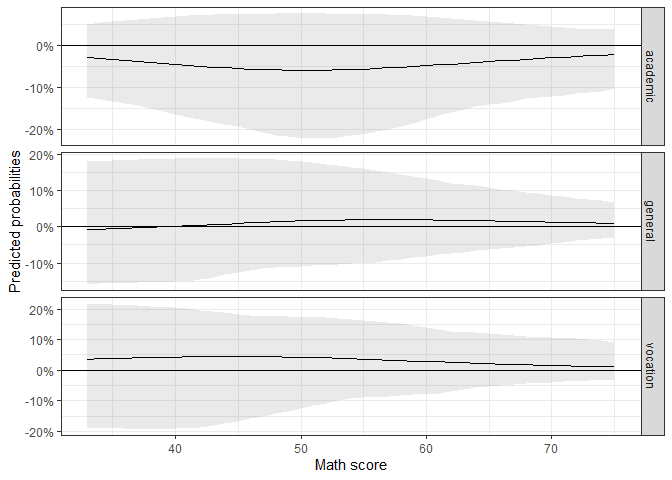
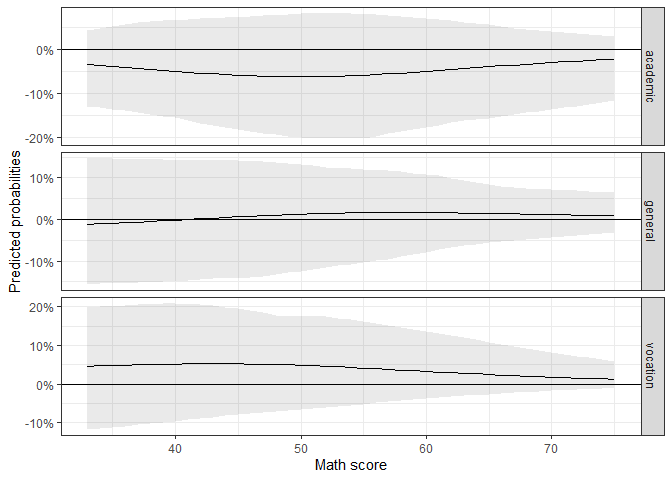
Add installing the package

diff --git a/README.md b/README.md
@@ -34,8 +34,8 @@ file, this is not the place to write comprehensively about it.
 These are the important characteristics of the model:
 
   - The multinomial logit regression is used to model nominal outcomes.
-    It provides the opportunity to assign specific choices a probability
-    based on a set of independent variables.
+    It provides the opportunity to assign specific choices a
+    probability, based on a set of independent variables.
   - The model needs an assigned baseline category to be identifiable.
     All other choices are evaluated in contrast to this reference.
   - The model returns a set of coefficients for each choice category.
@@ -46,6 +46,17 @@ These are the important characteristics of the model:
 This package helps to interpret the model in meaningful ways.
 
 ## Using the package
+
+### Installing
+
+The package can be both installed from CRAN or the github repository:
+
+``` r
+# Uncomment if necessary:
+
+# install.packages("MNLpred")
+# devtools::install_github("ManuelNeumann/MNLpred")
+```
 
 ### How does the function work?
 
@@ -59,19 +70,19 @@ It is far more helpful and easier to understand to come up with
 predicted probabilities and first differences for values of interest
 (see e.g., King, Tomz, and Wittenberg 2000 for approaches in social
 sciences). Based on simulations, this package helps to easily predict
-probabilities and confidence intervals for each choice category over a
-specified scenario (so far: the observed values).
+probabilities and their uncertainty in forms of confidence intervals for
+each choice category over a specified scenario.
 
 The procedure follows the following steps:
 
 1.  Estimate a multinomial model and save the coefficients and the
     variance covariance matrix (based on the Hessian-matrix of the
     model).
-2.  To simulate uncertainty, make \(n\) draws of coefficients from a
+2.  To simulate uncertainty, make n draws of coefficients from a
     simulated sampling distribution based on the coefficients and the
     variance covariance matrix.
 3.  Predict probabilities by multiplying the drawn coefficients with a
-    specified scenario (so far these are the observed values).
+    specified scenario (the observed values).
 4.  Take the mean and the quantiles of the simulated predicted
     probabilities.
 
@@ -80,10 +91,9 @@ so called observed value approach. This means that the “scenario” uses
 all observed values that informed the model. Therefore the function
 takes these more detailed steps:
 
-1.  For all (complete) cases \(n\) predictions are computed based on
-    their observed independent values and the \(n\) sets of
-    coefficients.
-2.  Next the predicted values of all observations for each simulation
+1.  For all (complete) cases n predictions are computed based on their
+    observed independent values and the n sets of coefficients.
+2.  Next, the predicted values of all observations for each simulation
     are averaged.
 3.  Take the mean and the quantiles of the simulated predicted
     probabilities (same as above).
@@ -116,7 +126,6 @@ library(nnet) # for the multinom()-function
 library(MASS) # for the multivariate normal distribution
 
 # The package
-# devtools::install_github("ManuelNeumann/MNLpred")
 library(MNLpred)
 
 # Plotting the predicted probabilities:
@@ -243,12 +252,12 @@ pred1$plotdata %>% head()
 #> # A tibble: 6 x 5
 #>    math prog2     mean  lower upper
 #>   <dbl> <fct>    <dbl>  <dbl> <dbl>
-#> 1    33 academic 0.150 0.0501 0.329
-#> 2    34 academic 0.163 0.0588 0.341
-#> 3    35 academic 0.176 0.0688 0.353
-#> 4    36 academic 0.190 0.0804 0.363
-#> 5    37 academic 0.205 0.0936 0.373
-#> 6    38 academic 0.221 0.108  0.383
+#> 1    33 academic 0.153 0.0497 0.315
+#> 2    34 academic 0.165 0.0577 0.324
+#> 3    35 academic 0.178 0.0669 0.331
+#> 4    36 academic 0.191 0.0776 0.341
+#> 5    37 academic 0.206 0.0897 0.354
+#> 6    38 academic 0.221 0.103  0.366
 ```
 
 As we can see, it includes the range of the x variable, a mean, a lower,
@@ -330,12 +339,12 @@ fdif2$plotdata_fd %>% head()
 #> # A tibble: 6 x 5
 #>    math prog2       mean  lower  upper
 #>   <dbl> <fct>      <dbl>  <dbl>  <dbl>
-#> 1    33 academic -0.0287 -0.124 0.0501
-#> 2    34 academic -0.0308 -0.127 0.0540
-#> 3    35 academic -0.0330 -0.132 0.0568
-#> 4    36 academic -0.0352 -0.137 0.0595
-#> 5    37 academic -0.0375 -0.142 0.0622
-#> 6    38 academic -0.0399 -0.148 0.0648
+#> 1    33 academic -0.0347 -0.129 0.0438
+#> 2    34 academic -0.0368 -0.132 0.0483
+#> 3    35 academic -0.0389 -0.136 0.0531
+#> 4    36 academic -0.0411 -0.140 0.0577
+#> 5    37 academic -0.0433 -0.143 0.0613
+#> 6    38 academic -0.0454 -0.147 0.0638
 ```
 
 Since the function calls the `mnl_pred_ova()` function internally, it
